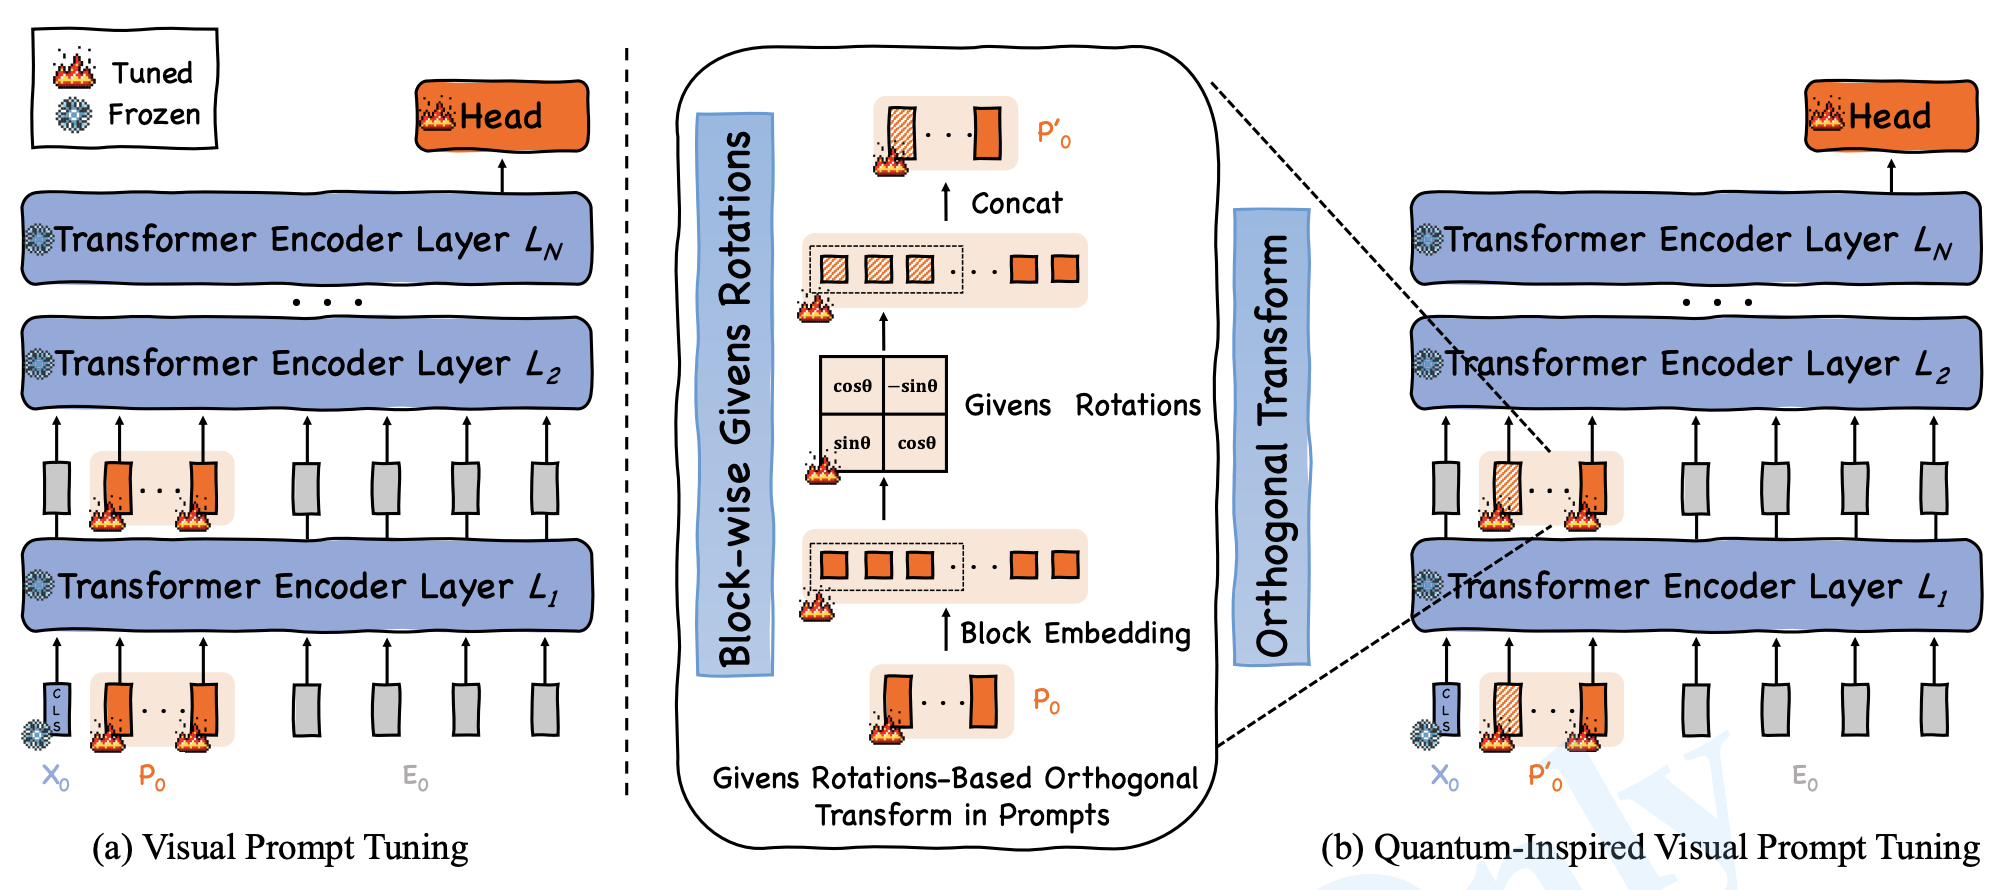
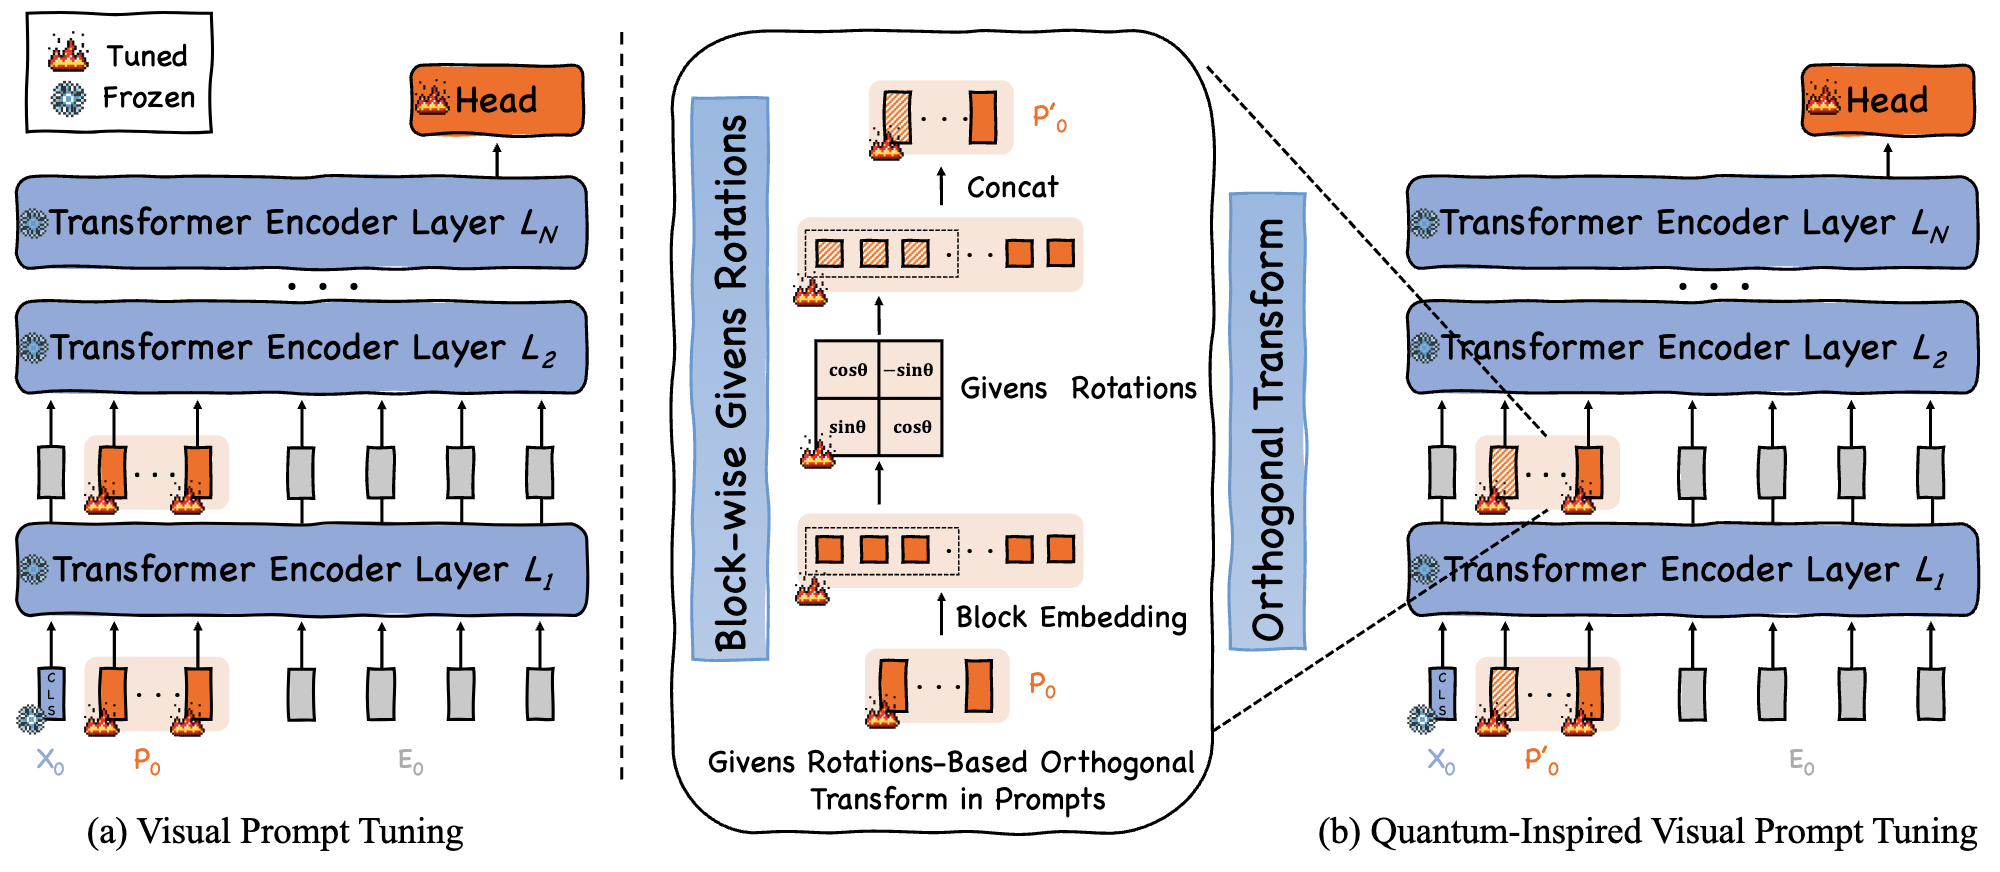
Update QIVPT figure

diff --git a/index.html b/index.html
@@ -288,10 +288,10 @@
           <article class="paper compact-paper">
             <figure class="paper-figure has-image">
               <img
-                src="resource/papers/quantum-prompt.png"
+                src="resource/papers/quantum-prompt.png?v=2"
                 alt="Comparison of visual prompt tuning and quantum-inspired visual prompt tuning with Givens rotations"
-                width="1996"
-                height="890"
+                width="2000"
+                height="872"
                 loading="lazy"
               />
             </figure>
